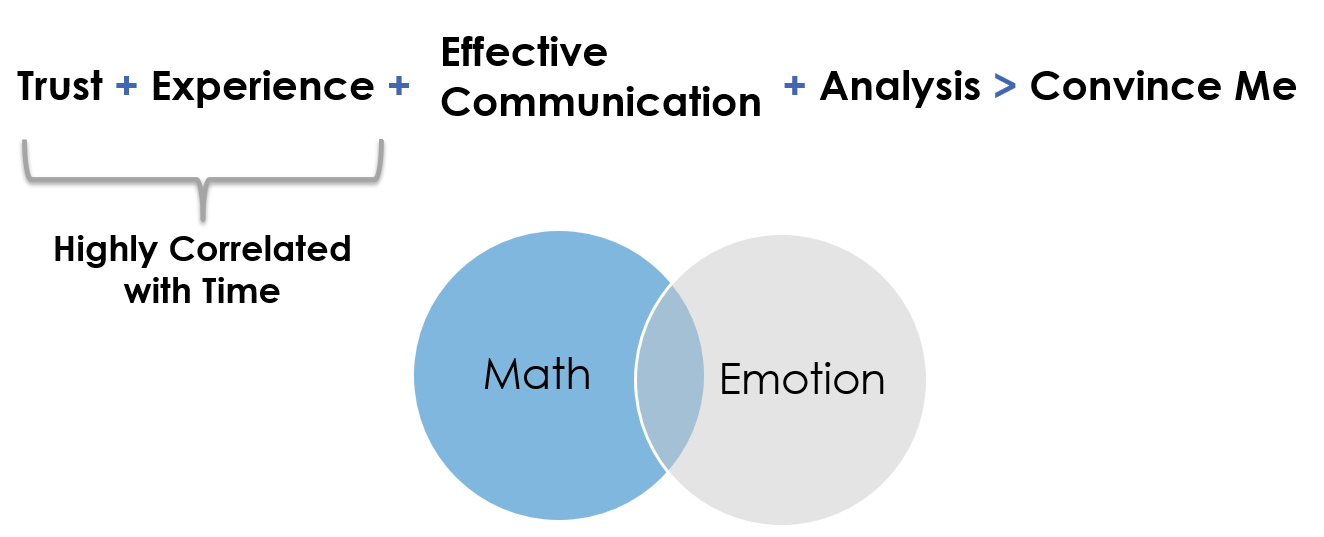
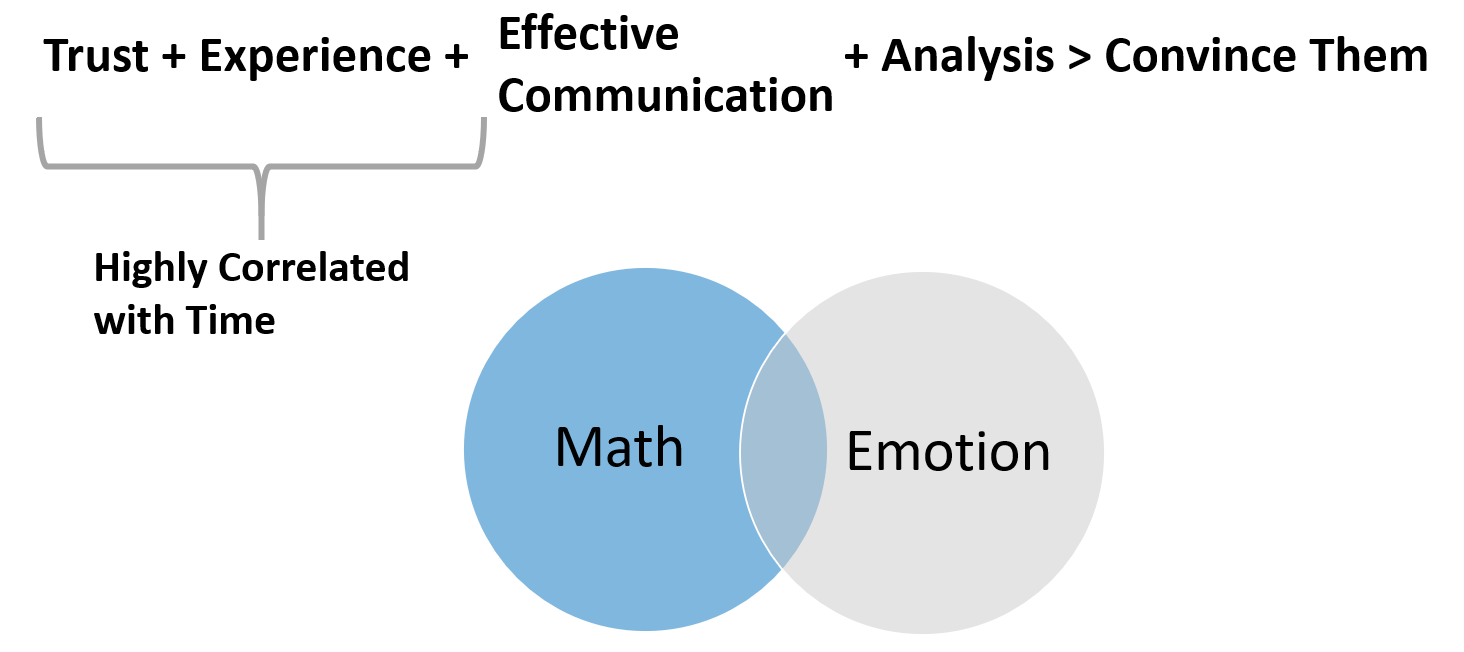
Adding the types of trust draft post. Also, updated the Convince me to Convince them in Selling Analytics graphic.

diff --git a/content/post/Types of Trust/index.md b/content/post/Types of Trust/index.md
@@ -1,0 +1,30 @@
+---
+title: Types of Trust
+subtitle: Swift Trust and Time Based Trust
+summary: 
+authors:
+- Walt
+tags: [experience]
+categories: []
+date: "2020-12-24T00:00:00Z"
+lastMod: "2020-12-24T00:00:00Z"
+featured: true
+draft: true
+
+# Featured image
+# To use, add an image named `featured.jpg/png` to your page's folder. 
+image:
+  caption: ""
+  focal_point: ""
+
+# Projects (optional).
+#   Associate this post with one or more of your projects.
+#   Simply enter your project's folder or file name without extension.
+#   E.g. `projects = ["internal-project"]` references 
+#   `content/project/deep-learning/index.md`.
+#   Otherwise, set `projects = []`.
+projects: []
+---
+
+![](./depositphotos_95532628-stock-photo-with-time-comes-experience-quote.jpg)
+
